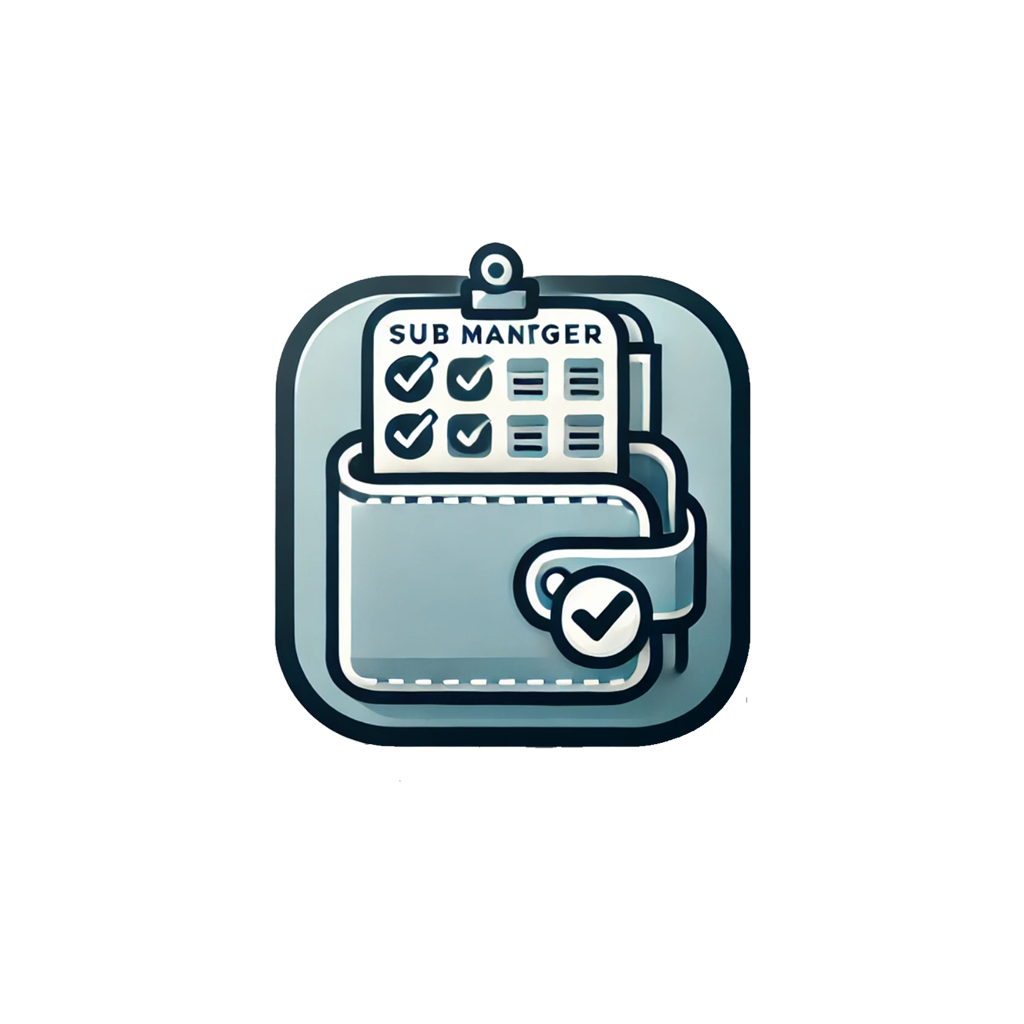
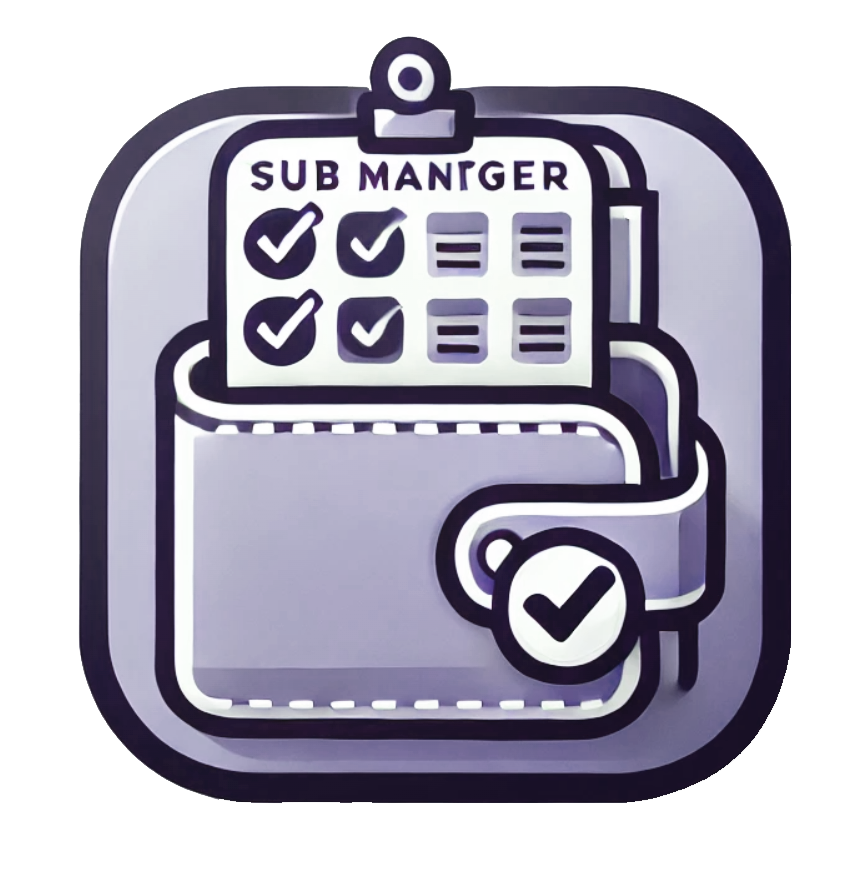
minor edits to filters

diff --git a/subscription-manager/src/screens/CreateSubscriptionScreen.js b/subscription-manager/src/screens/CreateSubscriptionScreen.js
@@ -1,4 +1,4 @@
-import React, { useState, useEffect } from "react";
+import React, { useState, useEffect, useRef } from "react";
 import {
   View,
   Text,
@@ -8,6 +8,7 @@ import {
   ActivityIndicator,
   Alert,
   ScrollView,
+  Keyboard,
 } from "react-native";
 import DateTimePickerModal from "react-native-modal-datetime-picker";
 import { createSubscription } from "../api/api";
@@ -43,6 +44,8 @@ const CreateSubscriptionScreen = ({ navigation }) => {
   const { availableTags = [] } = route.params || {};
 
   const [suggestions, setSuggestions] = useState([]); // список подсказок
+
+  const tagInputRef = useRef(null); // Создаем реф для TextInput
 
   // Проверка токена при загрузке экрана
   useEffect(() => {
@@ -305,6 +308,7 @@ const CreateSubscriptionScreen = ({ navigation }) => {
     <ScrollView
       style={{ flex: 1 }}
       contentContainerStyle={styles.scrollContent}
+      keyboardShouldPersistTaps="handled" // Добавлено
     >
       <View style={styles.container}>
         <Text style={styles.label}>Название сервиса</Text>
@@ -341,7 +345,7 @@ const CreateSubscriptionScreen = ({ navigation }) => {
           onCancel={hideDatePicker}
         />
         {/* Новый блок для выбора времени */}
-        <Text style={styles.label}>Время следующего платежа</Text>
+        <Text style={styles.label}>Время напоминания</Text>
         <TouchableOpacity onPress={showTimePicker}>
           <TextInput
             style={styles.input}
@@ -353,7 +357,7 @@ const CreateSubscriptionScreen = ({ navigation }) => {
                   })
                 : ""
             }
-            placeholder="Выберите время следующего платежа"
+            placeholder="Выберите время напоминания"
             editable={false}
           />
         </TouchableOpacity>
@@ -433,6 +437,7 @@ const CreateSubscriptionScreen = ({ navigation }) => {
                   // При выборе ставим tag = item, скрываем подсказки
                   setTag(item);
                   setSuggestions([]);
+                  Keyboard.dismiss(); // Скрываем клавиатуру
                 }}
                 style={{
                   padding: 8,
@@ -446,6 +451,7 @@ const CreateSubscriptionScreen = ({ navigation }) => {
           </View>
         )}
         <TextInput
+          ref={tagInputRef} // Присваиваем реф
           style={styles.input}
           value={tag}
           onChangeText={handleTagChange}
@@ -518,11 +524,11 @@ const styles = StyleSheet.create({
     marginTop: 20,
     padding: 12,
     borderRadius: 4,
-    backgroundColor: "#4CAF50", // Зеленый цвет, аналогичный кнопке "Сохранить"
+    backgroundColor: "#d5d2ec",
     alignItems: "center",
   },
   saveButtonText: {
-    color: "#fff",
+    color: "#000",
     fontSize: 16,
   },
 });

diff --git a/subscription-manager/src/screens/EditSubscriptionScreen.js b/subscription-manager/src/screens/EditSubscriptionScreen.js
@@ -1,4 +1,4 @@
-import React, { useState, useCallback } from "react";
+import React, { useState, useCallback, useRef } from "react";
 import {
   View,
   Text,
@@ -9,6 +9,7 @@ import {
   Platform,
   Alert,
   ScrollView,
+  Keyboard,
 } from "react-native";
 import DateTimePickerModal from "react-native-modal-datetime-picker";
 import { useFocusEffect, useRoute } from "@react-navigation/native";
@@ -36,6 +37,8 @@ const EditSubscriptionScreen = ({ navigation }) => {
 
   const [tag, setTag] = useState("");
   const [suggestions, setSuggestions] = useState([]);
+
+  const tagInputRef = useRef(null); // Создаем реф для TextInput
 
   const handleCostChange = (text) => {
     const formattedText = text.replace(",", ".");
@@ -224,6 +227,7 @@ const EditSubscriptionScreen = ({ navigation }) => {
     <ScrollView
       style={{ flex: 1 }}
       contentContainerStyle={styles.scrollContent}
+      keyboardShouldPersistTaps="handled" // Добавлено
     >
       <View style={styles.container}>
         <Text style={styles.label}>Название сервиса</Text>
@@ -277,7 +281,7 @@ const EditSubscriptionScreen = ({ navigation }) => {
         />
 
         {/* Новый блок для выбора времени */}
-        <Text style={styles.label}>Время следующего платежа</Text>
+        <Text style={styles.label}>Время напоминания</Text>
         <TouchableOpacity onPress={showTimePicker}>
           <TextInput
             style={styles.input}
@@ -289,7 +293,7 @@ const EditSubscriptionScreen = ({ navigation }) => {
                   })
                 : ""
             }
-            placeholder="Время следующего платежа"
+            placeholder="Выберите время напоминания"
             editable={false}
           />
         </TouchableOpacity>
@@ -371,6 +375,7 @@ const EditSubscriptionScreen = ({ navigation }) => {
                   // При выборе ставим tag = item, скрываем подсказки
                   setTag(item);
                   setSuggestions([]);
+                  Keyboard.dismiss(); // Скрываем клавиатуру
                 }}
                 style={{
                   padding: 8,
@@ -384,6 +389,7 @@ const EditSubscriptionScreen = ({ navigation }) => {
           </View>
         )}
         <TextInput
+          ref={tagInputRef} // Присваиваем реф
           style={styles.input}
           value={tag}
           onChangeText={handleTagChange}
@@ -456,11 +462,11 @@ const styles = StyleSheet.create({
     marginTop: 20,
     padding: 12,
     borderRadius: 4,
-    backgroundColor: "#4CAF50",
+    backgroundColor: "#d5d2ec",
     alignItems: "center",
   },
   saveButtonText: {
-    color: "#fff",
+    color: "#000",
     fontSize: 16,
   },
   errorText: {

diff --git a/subscription-manager/src/screens/SubscriptionListScreen.js b/subscription-manager/src/screens/SubscriptionListScreen.js
@@ -71,7 +71,15 @@ const SubscriptionListScreen = () => {
     };
 
     if (isFocused) {
-      initializeData();
+      // Если skipRefresh === true, то пропускаем перезагрузку
+      if (route.params?.skipRefresh) {
+        // Например, просто сбросим этот параметр, чтобы он не "застрял"
+        navigation.setParams({ skipRefresh: false });
+        // И не вызываем fetchSubscriptions -> значит не будет мигать
+      } else {
+        // Обычная логика, которая была: грузим подписки
+        initializeData();
+      }
     }
   }, [isFocused]);
 
@@ -101,6 +109,7 @@ const SubscriptionListScreen = () => {
       }
 
       setLoading(true);
+
       const data = await getSubscriptions();
       logger.log(
         "Подписки успешно загружены. Количество подписок:",
@@ -237,7 +246,7 @@ const SubscriptionListScreen = () => {
         </Text>
 
         {/* Показываем, какой тег выбран */}
-        {selectedTag ? (
+        {selectedTag && (
           <View style={{ marginTop: 5 }}>
             <Text style={{ fontStyle: "italic" }}>
               Отфильтровано по тегу:{" "}
@@ -249,7 +258,7 @@ const SubscriptionListScreen = () => {
                 marginTop: 5,
                 paddingHorizontal: 8,
                 paddingVertical: 4,
-                backgroundColor: "#007bff",
+                backgroundColor: "#7b6dae",
                 borderRadius: 4,
                 alignSelf: "flex-start",
               }}
@@ -257,10 +266,6 @@ const SubscriptionListScreen = () => {
               <Text style={{ color: "#fff" }}>Сбросить фильтр</Text>
             </TouchableOpacity>
           </View>
-        ) : (
-          <Text style={{ fontStyle: "italic", marginTop: 5 }}>
-            Все подписки:
-          </Text>
         )}
       </View>
 
@@ -360,10 +365,10 @@ const styles = StyleSheet.create({
   totalCostContainer: {
     alignSelf: "center",
     padding: 12,
-    backgroundColor: "#FFD700",
+    backgroundColor: "#d5d2ec",
     borderRadius: 8,
     marginBottom: 16,
-    width: "80%",
+    // width: "80%",
   },
   totalCostText: {
     fontSize: 20,
@@ -420,10 +425,10 @@ const styles = StyleSheet.create({
     marginLeft: 10,
   },
   editButton: {
-    backgroundColor: "#007bff",
+    backgroundColor: "#7b6dae",
   },
   deleteButton: {
-    backgroundColor: "red",
+    backgroundColor: "tomato",
   },
   buttonText: {
     color: "#fff",
@@ -433,7 +438,7 @@ const styles = StyleSheet.create({
   addButton: {
     marginTop: 20,
     padding: 15,
-    backgroundColor: "#FFD700",
+    backgroundColor: "#d5d2ec",
     borderRadius: 8,
     alignItems: "center",
   },

diff --git a/subscription-manager/src/components/HeaderMenu.js b/subscription-manager/src/components/HeaderMenu.js
@@ -51,6 +51,7 @@ const HeaderMenu = ({ navigation, availableTags, selectedTag }) => {
               navigation.navigate("TagFilterScreen", {
                 availableTags, // Можем передать теги
                 selectedTag, // И текущий выбранный тег
+                skipRefresh: true,
               });
             }}
             title="Фильтр по тегам"
@@ -86,78 +87,3 @@ const styles = StyleSheet.create({
 });
 
 export default HeaderMenu;
-
-// import React, { useState } from "react";
-// import { View, StyleSheet } from "react-native";
-// import { Menu, Button } from "react-native-paper";
-
-// const HeaderMenu = ({ navigation }) => {
-//   const [visible, setVisible] = useState(false);
-
-//   const openMenu = () => setVisible(true);
-//   const closeMenu = () => setVisible(false);
-
-//   return (
-//     <View style={styles.container}>
-//       <View style={styles.menuContainer}>
-//         <Menu
-//           visible={visible}
-//           onDismiss={closeMenu}
-//           anchor={
-//             <Button
-//               icon="menu"
-//               mode="contained"
-//               onPress={openMenu}
-//               contentStyle={{ backgroundColor: "#e5e5e5" }} // Цвет кнопки
-//               labelStyle={{ color: "#000" }} // Цвет текста на кнопке
-//             >
-//               Меню
-//             </Button>
-//           }
-//           style={styles.menu} // Применение стилей к списку
-//         >
-//           <Menu.Item
-//             onPress={() => {
-//               closeMenu();
-//               navigation.navigate("NotificationHistory");
-//             }}
-//             title="История уведомлений"
-//           />
-//           {/* <Menu.Item
-//             onPress={() => {
-//               closeMenu();
-//               navigation.navigate("Settings");
-//             }}
-//             title="Настройки"
-//           /> */}
-//         </Menu>
-//       </View>
-//     </View>
-//   );
-// };
-
-// const styles = StyleSheet.create({
-//   container: {
-//     flex: 1,
-//     justifyContent: "center",
-//     alignItems: "center",
-//     backgroundColor: "#fff", // Фон для отладки
-//   },
-//   menuContainer: {
-//     justifyContent: "flex-end",
-//     alignItems: "center",
-//     paddingRight: 16,
-//   },
-//   menu: {
-//     // Стили для выпадающего списка
-//     marginTop: 50, // Смещение вниз, если требуется
-//     backgroundColor: "white",
-//     borderRadius: 8,
-//     elevation: 4, // Тень для Android
-//     shadowColor: "#000", // Тень для iOS
-//     shadowOpacity: 0.1,
-//     shadowRadius: 4,
-//   },
-// });
-
-// export default HeaderMenu;

diff --git a/subscription-manager/src/screens/TagFilterScreen.js b/subscription-manager/src/screens/TagFilterScreen.js
@@ -18,12 +18,20 @@ const TagFilterScreen = () => {
   const navigation = useNavigation();
 
   // Достаем из route.params список тегов и текущий выбранный
-  const { availableTags = [], selectedTag = "" } = route.params || {};
+  const {
+    availableTags = [],
+    selectedTag = "",
+    skipRefresh = false,
+  } = route.params || {};
 
   // Функция выбора тега
   const handleSelectTag = (tag) => {
     // Возвращаемся на SubscriptionList, передавая newSelectedTag
-    navigation.navigate("SubscriptionList", { newSelectedTag: tag });
+    navigation.navigate("SubscriptionList", {
+      // Возвращаемся на SubscriptionList, передавая новый тег и тот же skipRefresh
+      newSelectedTag: tag,
+      skipRefresh,
+    });
   };
 
   const allTags = ["", ...availableTags]; // "" означает "Все"

diff --git a/subscription-manager/app.config.js b/subscription-manager/app.config.js
@@ -1,6 +1,6 @@
 export default {
   expo: {
-    name: "subscription-manager",
+    name: "Pay Aware",
     slug: "subscription-manager",
     version: "1.0.0",
     scheme: "payawareapp", // схема приложения, используется для deeplink
